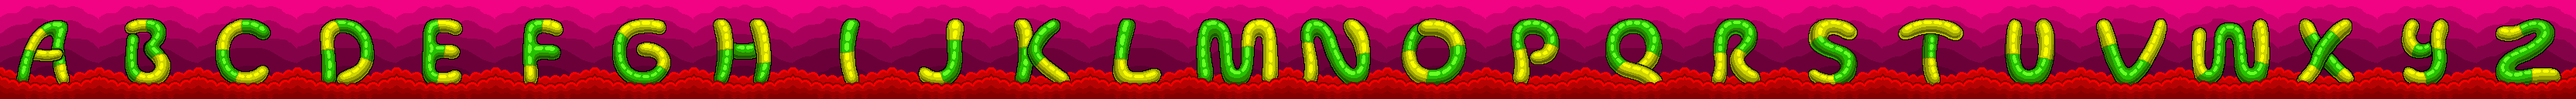
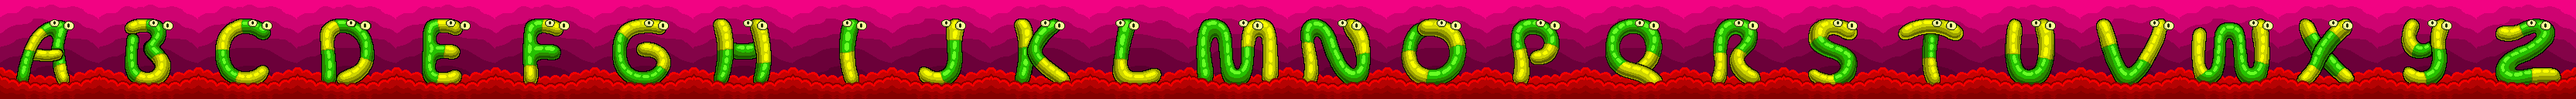
letter bonus graphics numbers, and letters with eyes while being et

diff --git a/sdk/examples/word/CubeState.cpp b/sdk/examples/word/CubeState.cpp
@@ -34,67 +34,45 @@ void CubeState::paintTeeth(VidMode_BG0_SPR_BG1& vid,
     const AssetImage* teethImages[] =
     {
         &TeethLoopWord,     // ImageIndex_Connected,
-        &TeethNewWord,      // ImageIndex_ConnectedWord,
+        &TeethNewWord2,      // ImageIndex_ConnectedWord,
         &TeethLoopWordLeft, // ImageIndex_ConnectedLeft,
-        &TeethNewWordLeft,  // ImageIndex_ConnectedLeftWord,
+        &TeethNewWord2Left,  // ImageIndex_ConnectedLeftWord,
         &TeethLoopWordRight,// ImageIndex_ConnectedRight,
-        &TeethNewWordRight, // ImageIndex_ConnectedRightWord,
+        &TeethNewWord2Right, // ImageIndex_ConnectedRightWord,
         &TeethLoopConnected,// ImageIndex_Neighbored,
         &Teeth,             // ImageIndex_Teeth,
     };
 
-    const AssetImage* teethCenterImages[] =
+    const AssetImage* teethNumberImages[] =
     {
-        &TeethNewWord2,
         &TeethNewWord3,
         &TeethNewWord4,
         &TeethNewWord5,
-        &TeethNewWord6,
     };
 
-    const AssetImage* teethLeftImages[] =
-    {
-        &TeethNewWord2Left,
-        &TeethNewWord3Left,
-        &TeethNewWord4Left,
-        &TeethNewWord5Left,
-        &TeethNewWord6Left,
-    };
-
-    const AssetImage* teethRightImages[] =
-    {
-        &TeethNewWord2Right,
-        &TeethNewWord3Right,
-        &TeethNewWord4Right,
-        &TeethNewWord5Right,
-        &TeethNewWord6Right,
-    };
-
+    const Vec2 TEETH_NUM_POS(4, 6);
     STATIC_ASSERT(arraysize(teethImages) == NumImageIndexes);
     ASSERT(teethImageIndex >= 0);
     ASSERT(teethImageIndex < (ImageIndex)arraysize(teethImages));
-    const AssetImage* pteeth = teethImages[teethImageIndex];
+    const AssetImage& teeth = *teethImages[teethImageIndex];
+    const AssetImage* teethNumber = 0;
 
-    switch (teethImageIndex)
+    unsigned teethNumberIndex = GameStateMachine::getNewWordLength();
+    if (teethNumberIndex > 2)
     {
-    case ImageIndex_ConnectedWord:
-        pteeth = teethCenterImages[MIN(((unsigned)arraysize(teethCenterImages) - 1), ((unsigned)GameStateMachine::getNewWordLength() - 2))];
-        break;
+        teethNumberIndex -= 3;
+        switch (teethImageIndex)
+        {
+        case ImageIndex_ConnectedWord:
+        case ImageIndex_ConnectedLeftWord:
+        case ImageIndex_ConnectedRightWord:
+            teethNumber = teethNumberImages[MIN(((unsigned)arraysize(teethNumberImages) - 1), teethNumberIndex)];
+            break;
 
-    case ImageIndex_ConnectedLeftWord:
-        pteeth = teethCenterImages[MIN(((unsigned)arraysize(teethLeftImages) - 1), ((unsigned)GameStateMachine::getNewWordLength() - 2))];
-        break;
-
-    case ImageIndex_ConnectedRightWord:
-        pteeth = teethCenterImages[MIN(((unsigned)arraysize(teethRightImages) - 1), ((unsigned)GameStateMachine::getNewWordLength() - 2))];
-        break;
-
-    default:
-        break;
+        default:
+            break;
+        }
     }
-
-    const AssetImage& teeth = *pteeth;
-
     unsigned frame = 0;
     unsigned secondsLeft = GameStateMachine::getSecondsLeft();
 
@@ -142,11 +120,43 @@ void CubeState::paintTeeth(VidMode_BG0_SPR_BG1& vid,
             case TransparencyType_None:
                 // paint this opaque tile
                 // paint BG0
-                vid.BG0_drawPartialAsset(Vec2(j, i), Vec2(j, i), Vec2(1, 1), teeth, frame);
+                if (teethNumber &&
+                    frame >= 2 && frame - 2 < teethNumber->frames &&
+                    j >= ((unsigned) TEETH_NUM_POS.x) &&
+                    j < teethNumber->width + ((unsigned) TEETH_NUM_POS.x) &&
+                    i >= TEETH_NUM_POS.y &&
+                    i < ((int) teethNumber->height) + TEETH_NUM_POS.y)
+                {
+                    vid.BG0_drawPartialAsset(Vec2(j, i),
+                                             Vec2(j - TEETH_NUM_POS.x, i - TEETH_NUM_POS.y),
+                                             Vec2(1, 1),
+                                             *teethNumber,
+                                             frame - 2);
+                }
+                else
+                {
+                    vid.BG0_drawPartialAsset(Vec2(j, i), Vec2(j, i), Vec2(1, 1), teeth, frame);
+                }
                 break;
 
             case TransparencyType_Some:
-                bg1.DrawPartialAsset(Vec2(j, i), Vec2(j, i), Vec2(1, 1), teeth, frame);
+                if (teethNumber &&
+                    frame >= 2 && frame - 2 < teethNumber->frames &&
+                    j >= ((unsigned) TEETH_NUM_POS.x) &&
+                    j < teethNumber->width + ((unsigned) TEETH_NUM_POS.x) &&
+                    i >= TEETH_NUM_POS.y &&
+                    i < ((int) teethNumber->height) + TEETH_NUM_POS.y)
+                {
+                    bg1.DrawPartialAsset(Vec2(j, i),
+                                         Vec2(j - TEETH_NUM_POS.x, i - TEETH_NUM_POS.y),
+                                         Vec2(1, 1),
+                                         *teethNumber,
+                                         frame - 2);
+                }
+                else
+                {
+                    bg1.DrawPartialAsset(Vec2(j, i), Vec2(j, i), Vec2(1, 1), teeth, frame);
+                }
                 break;
 
             default:
